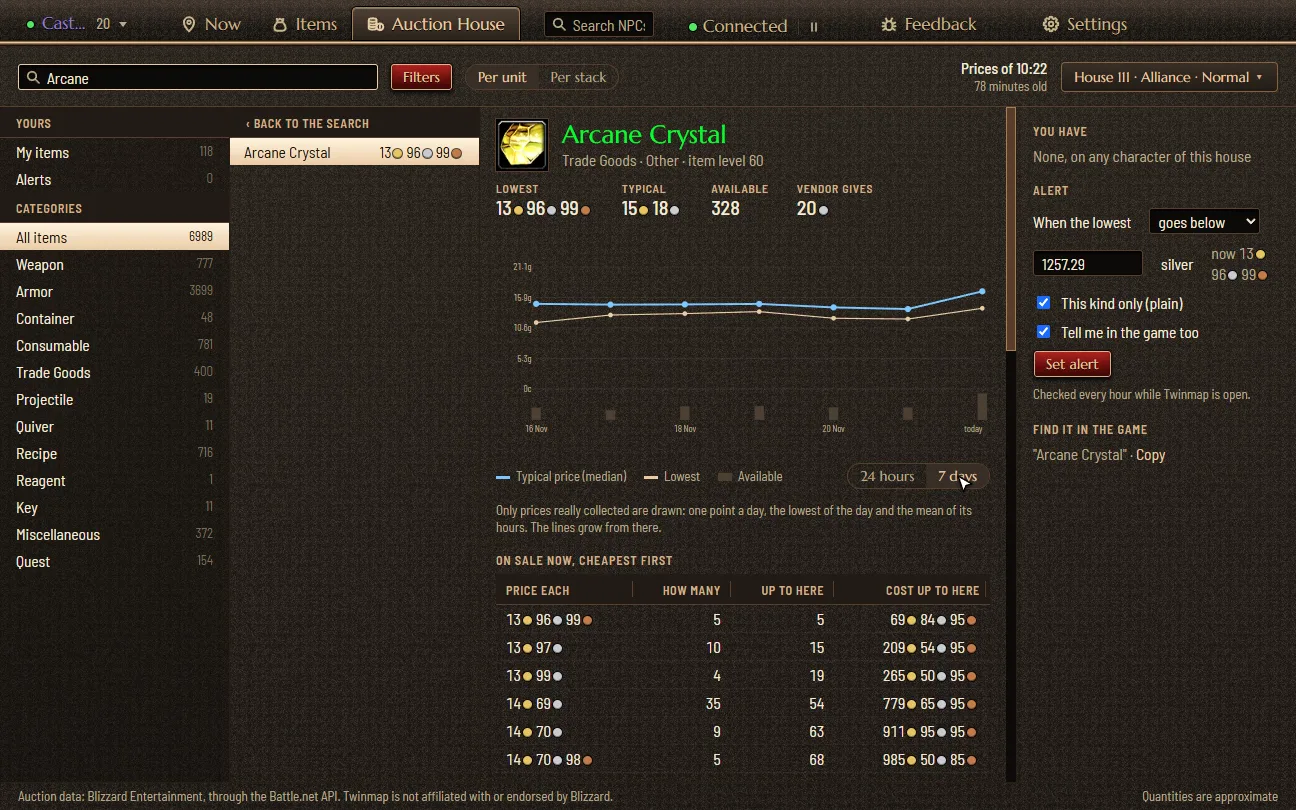
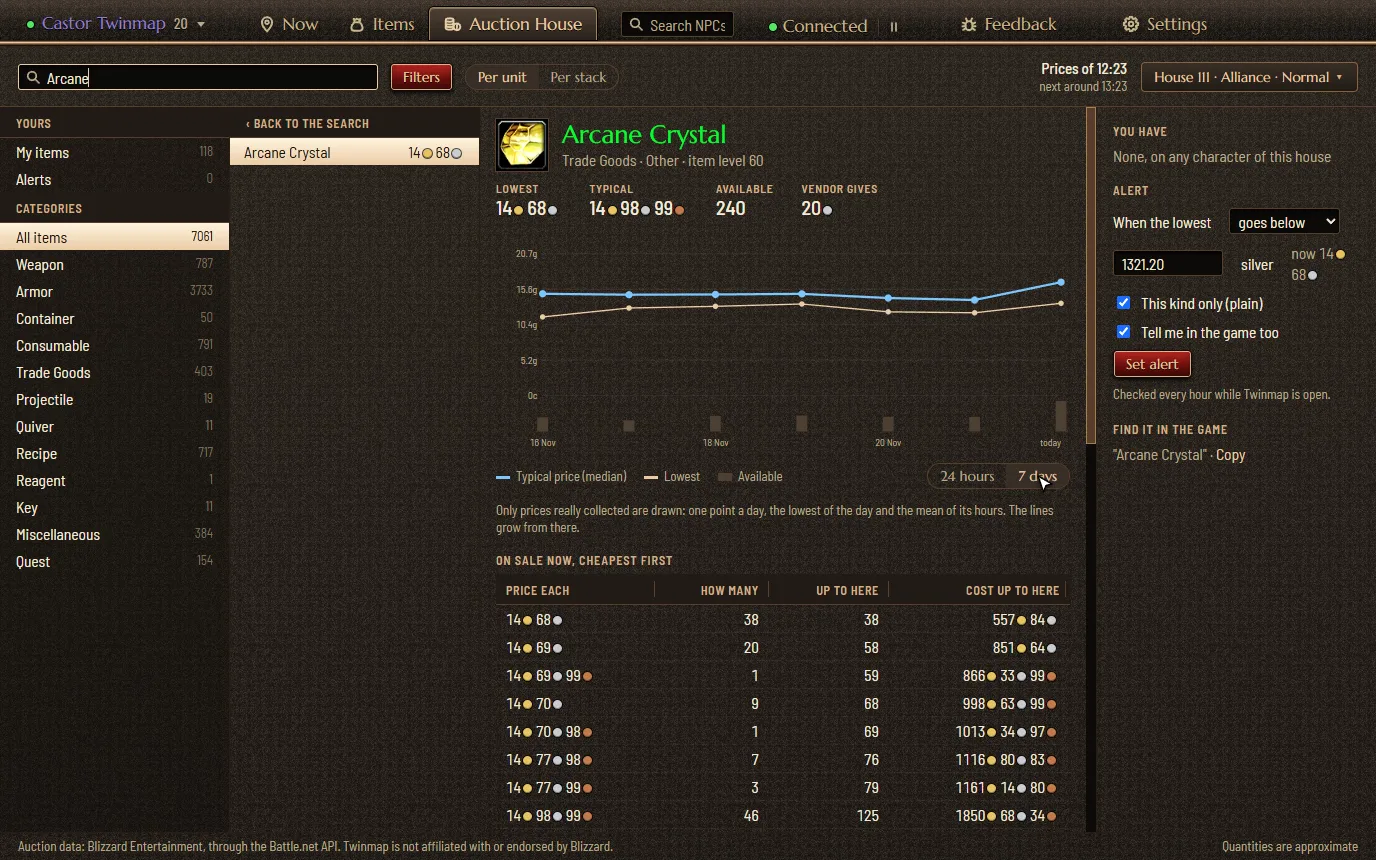
The Auction House film on the site at its new size, with its poster (#254)
The Auction House film on the site is now 1376 x 860, the size it is
made at, so the name of the character and the tab are written in full.
Its poster is a frame of the new film, and the description of the film
for screen readers no longer names a price, which changes with the
prices of the day.

diff --git a/site/index.html b/site/index.html
@@ -147,7 +147,7 @@
         </div>
         <figure class="map">
           <div class="frame">
-            <video muted loop playsinline preload="none" poster="assets/ah-poster.webp" width="1296" height="810" aria-label="The Auction House of Twinmap: the list of a house with each item's line over 24 hours, Arcane typed in the search, the page of Arcane Crystal with its price chart over a day and then a week, and an alert set for when its lowest price goes below 12 gold">
+            <video muted loop playsinline preload="none" poster="assets/ah-poster.webp" width="1376" height="860" aria-label="The Auction House of Twinmap: the list of a house with each item's line over 24 hours, Arcane typed in the search, the page of Arcane Crystal with its price chart over a day and then a week, and an alert set a little under its lowest price">
               <source src="https://twinmap.app/media/ah.mp4" type="video/mp4" />
             </video>
             <i class="stud tl"></i><i class="stud tr"></i><i class="stud bl"></i><i class="stud br"></i>
